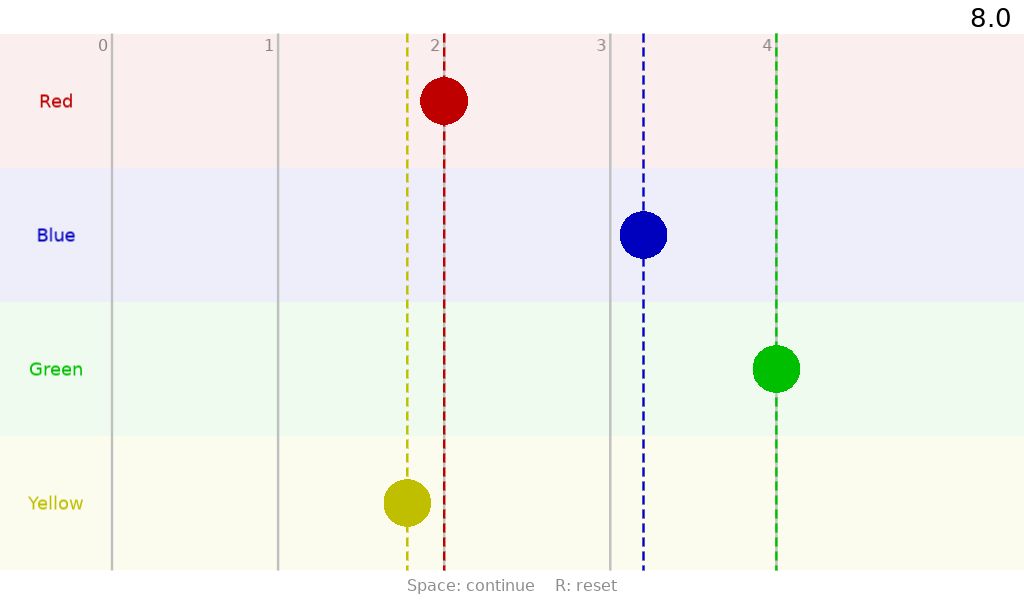
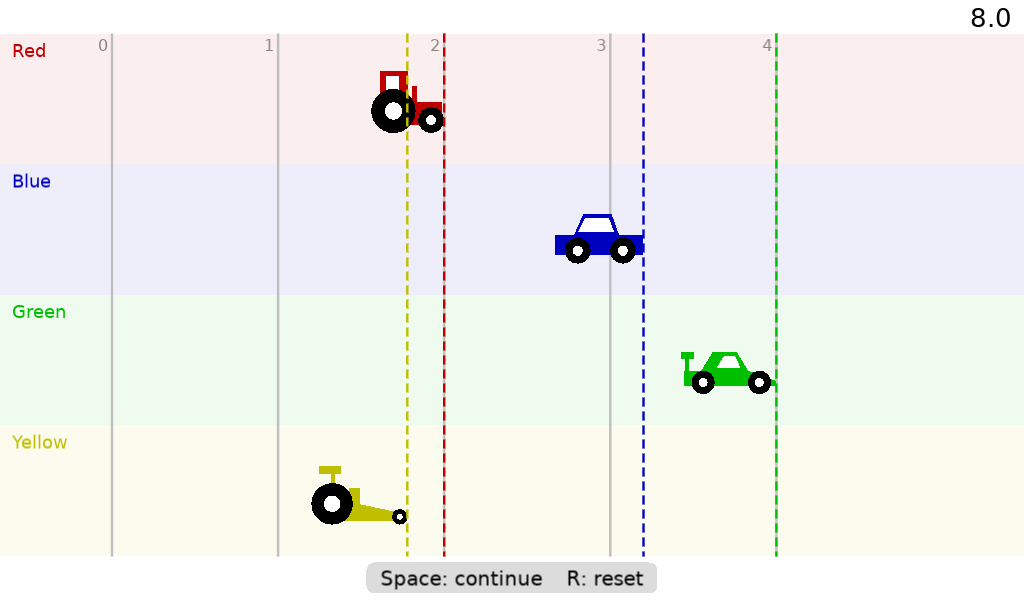
Feedback round: modal pause dialog, pill hints, car glyphs
R is the only reset (Shift+Esc dropped — nothing to go back
to). P now opens an unmistakable centered dialog over a dimmed
field; a run beneath it freezes while it is open and resumes on
close. Status hints move onto a light pill with 20px black text,
keyboard-style. Cars become profile-matched glyphs — red tractor
(slow), blue family sedan (medium), green sports car (fast),
yellow dragster (accelerating) — drawn nose-first so a pulse
fires the moment the nose touches a line; lane labels move to
the lane's top-left, clear of the bodies. Screenshots refreshed
from the device.

Claude-Session: https://claude.ai/code/session_01FLidCy8wzJPojiRMZCoNUP

diff --git a/README.md b/README.md
@@ -1,11 +1,13 @@
 # Cars — a measurement instrument for Compy
 
-Four cars drive along four lanes. Three hold a constant
-speed; one accelerates. Children time each car with a
-physical stopwatch as it crosses milestone lines, plot the
-readings on paper coordinate grids, and discover that
-steady cars draw straight lines while the accelerating one
-draws a curve.
+Four cars drive along four lanes: a red tractor (constant,
+slow), a blue family sedan (constant, medium), a green
+sports car (constant, fast), and a yellow dragster that
+starts slow and keeps accelerating. Children time each car
+with a physical stopwatch as its nose crosses milestone
+lines, plot the readings on paper coordinate grids, and
+discover that steady cars draw straight lines while the
+dragster draws a curve.
 
 Written for the [Compy](https://github.com/compy-toys/compy/)
 project. This is not a game — it is an apparatus. The screen
@@ -53,17 +55,19 @@ that difference is the lesson.
 For the children:
 
 - `Space` — start the run; pause; continue.
-- `R` — reset everything to the start. Also `Shift+Esc`.
+- `R` — reset everything to the start.
 
-For the teacher (hidden, for the prediction rounds):
+For the teacher (for the prediction rounds):
 
 - `M` — toggle milestone line 5, placed 1.25 spacings past
   line 4, for "when will it arrive?" predictions.
-- `P`, digits, `Enter` — freeze the run at that many seconds.
-  Dashed lines in each car's color mark the frozen positions
-  for "where will it be?" predictions. `P` again clears the
-  pause point. The pause point re-arms on every start until
-  cleared.
+- `P` — opens a prominent centered dialog; type the seconds
+  and press `Enter`. A run beneath the dialog freezes while
+  it is open. When the run reaches the set time it freezes,
+  and dashed lines in each car's color mark the frozen
+  positions for "where will it be?" predictions. `P` again
+  clears the pause point. The pause point re-arms on every
+  start until cleared.
 
 Everything else is ignored. There is no score, no losing,
 and nothing to break: reset or relaunch always returns to
@@ -86,11 +90,16 @@ the last line:
 ![Done](screenshots/done.png)
 
 The teacher's fifth line, and a run frozen at 8.0 seconds
-with each car's position marked — the red car sits exactly
-on line 2, as the timetable says it should:
+with each car's position marked — the red tractor's nose
+sits exactly on line 2, as the timetable says it should:
 
 ![Line 5](screenshots/line5.png)
 ![Frozen at 8 seconds](screenshots/frozen-at-8.png)
+
+The pause-time dialog; a run beneath it freezes while it
+is open:
+
+![Pause dialog](screenshots/pause-dialog.png)
 
 ## Verification
 
